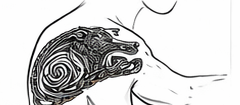
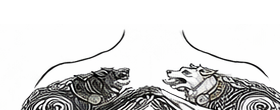
Correct placement demo labels and crops

diff --git a/index.html b/index.html
@@ -292,23 +292,23 @@
         <div class="placement" id="placementChooser">
           <div class="option active" data-copy="Upper shoulders are the preferred fit. The design stays mostly horizontal, with just enough arc to follow anatomy naturally."><strong>Upper shoulders</strong><br><span class="note">Preferred</span></div>
           <div class="option" data-copy="A single shoulder cap version works if the composition is compressed and simplified slightly, with the tails wrapping downward more."><strong>Single shoulder</strong><br><span class="note">Compressed variation</span></div>
-          <div class="option" data-copy="Underside of right arm works as a more linear adaptation, but it will lose some symmetry and should be redrawn, not simply shrunk."><strong>Underside of right arm</strong><br><span class="note">Linear adaptation</span></div>
+          <div class="option" data-copy="A shoulder-to-forearm version works as a more linear adaptation, carrying the design down the arm instead of sitting only on the underside."><strong>Shoulder to forearm</strong><br><span class="note">Linear adaptation</span></div>
         </div>
         <p id="placementText" style="margin-top:14px;">Upper shoulders are the preferred fit. The design stays mostly horizontal, with just enough arc to follow anatomy naturally.</p>
-        <p class="note" style="margin-top:18px;">Tighter placement sketches derived from the line drawings in <code>draft2.png</code>. These are meant to read as a shoulder version and an underside-of-arm version, without all the extra sheet text around them.</p>
+        <p class="note" style="margin-top:18px;">Tighter placement sketches derived from the line drawings in <code>draft2.png</code>. These are meant to read as a full upper-shoulders spread and a shoulder-to-forearm arm flow, without the extra sheet text around them.</p>
         <div class="placement-demo">
           <div class="placement-card">
-            <img src="img/placement-shoulder-demo.png" alt="Single shoulder placement line drawing from draft2" />
+            <img src="img/placement-shoulder-demo.png" alt="Upper shoulders placement line drawing from draft2" />
             <div class="placement-copy">
-              <h3>Single Shoulder</h3>
-              <p>A compressed shoulder version based on the draft2 line drawing. It keeps the same paired-hound language, but curves the composition into a tighter shoulder-friendly footprint.</p>
+              <h3>Upper Shoulders</h3>
+              <p>A smaller full-width upper-shoulders span based on the draft2 line drawing. This version carries across the whole back rather than collapsing into a single shoulder cap.</p>
             </div>
           </div>
           <div class="placement-card">
-            <img src="img/placement-arm-demo.png" alt="Underside of right arm placement line drawing from draft2" />
+            <img src="img/placement-arm-demo.png" alt="Shoulder to forearm placement line drawing from draft2" />
             <div class="placement-copy">
-              <h3>Underside Of Right Arm</h3>
-              <p>A directional underside-of-arm version based on the draft2 line drawing. This one stretches the design along the limb and trades symmetry for flow and readability in a narrow space.</p>
+              <h3>Shoulder To Forearm</h3>
+              <p>A longer arm-flow version based on the draft2 line drawing. This one reads from the upper arm toward the forearm, so it feels more like a shoulder-to-forearm placement than a pure underside-only panel.</p>
             </div>
           </div>
         </div>
